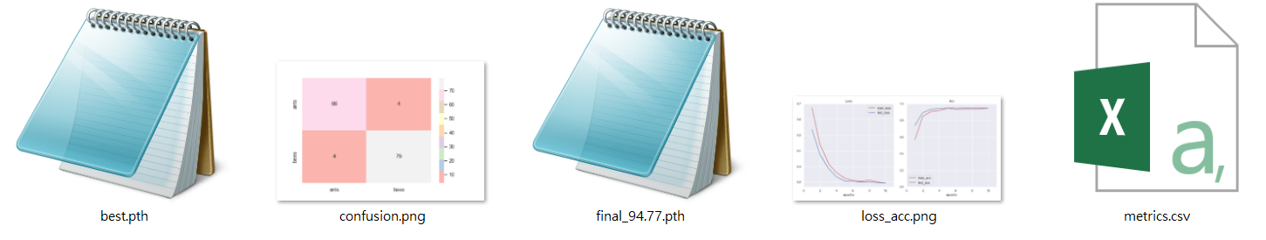
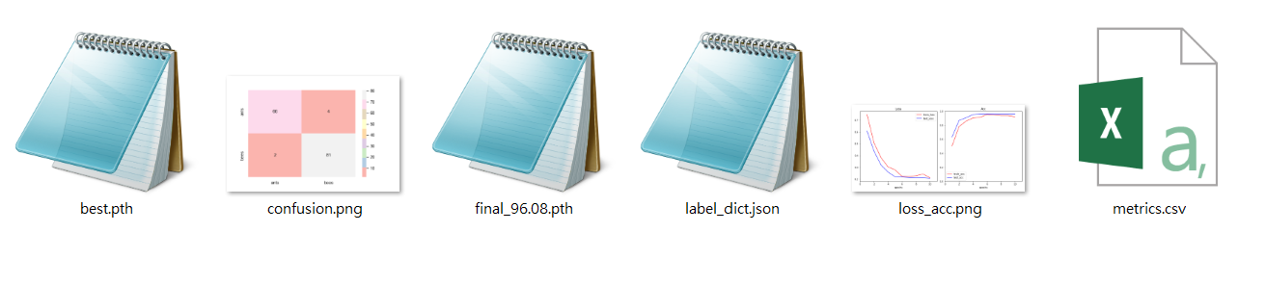
add function of generate label_dict.json

diff --git a/yuyi_ai_package/classification/interface.py b/yuyi_ai_package/classification/interface.py
@@ -6,7 +6,48 @@ Created on Sun Jun 19 22:44:07 2022
 
 """
 
-
+""" 使用方式
+    
+    import yuyi_nilm_package as yuyi
+    import torch, torchvision
+    from torch import nn
+    import torch.nn.functional as F
+    import torchvision.models as models
+    
+    
+    def main():
+        train_dataset = yuyi.classification.Classify_Dataset("train_img/train")
+        train_loader = torch.utils.data.DataLoader(train_dataset, 
+                                                    batch_size=32,
+                                                    shuffle=True,
+                                                    drop_last=False)
+        test_dataset = yuyi.classification.Classify_Dataset("train_img/val")
+        test_loader = torch.utils.data.DataLoader(test_dataset, 
+                                                    batch_size=len(test_dataset),
+                                                    shuffle=True,
+                                                    drop_last=False)
+        
+        ## {標籤 : 數字}
+        label_dict = train_dataset.getLabeldict()
+        
+        
+        
+        
+        ## 模型
+        model = models.resnet18(pretrained=True)
+        model.conv1 = nn.Conv2d(1, 64, 7, stride=(2, 2), padding=(3, 3), bias=False)
+        model.fc = nn.Linear(model.fc.in_features, 7)
+        
+        ## 訓練
+        epochs = 20
+        lr = 0.00001
+        opt = "adam"
+        classifyObj = yuyi.classification.Classify(label_dict)
+        classifyObj.train(train_loader, test_loader, model, epochs=epochs, lr=lr, opt=opt)
+        
+        ## 評估
+        classifyObj.evaluate(test_loader)
+"""
 
 
 from .classiifier import *
@@ -17,6 +58,7 @@ from PIL import Image
 import sklearn.metrics as metrics
 import seaborn as sns
 import pandas as pd
+import json
 
 class Classify_Dataset(Dataset):
     """ 
@@ -95,6 +137,10 @@ class Classify():
         folder_name = len(os.listdir(metrics_folder))
         self.__folder_path = os.path.join(metrics_folder, f"Result_{folder_name}/")
         os.mkdir(self.__folder_path)
+        
+        ## 儲存 label_dict
+        with open(os.path.join( self.__folder_path, "label_dict.json"), 'w') as f:
+            json.dump([self.__label_dict, self.__label_dict_reverse], f)
     
     
     def train(self, train_loader, test_loader, model, epochs=10, lr=0.0001, opt="sgd", early_stop=200):

diff --git a/README.md b/README.md
@@ -11,7 +11,7 @@
 * **執行 ```train_classifier.py```**，在執行的過程中，會同步顯示 Loss、Acc圖 (如下)
 ![訓練過程_Loss_Acc](./img/classification_loss_acc.gif)
 
-* **執行完畢會生成 ```AI-utils/metrics/Result_1/``` 資料夾，裡面會存放 : <u>模型權重</u>、<u>最終Loss_Acc圖</u>、<u>Confusion Matrix圖</u> 以及 一份<u>excel檔案(內含每個類別的acc、recall、fi-score)</u>**<br><br>
+* **執行完畢會生成 ```AI-utils/metrics/Result_1/``` 資料夾，裡面會存放 : <u>模型權重</u>、<u>標籤對應數字.json</u>、<u>最終Loss_Acc圖</u>、<u>Confusion Matrix圖</u> 以及 一份<u>excel檔案(內含每個類別的acc、recall、fi-score)</u>**<br><br>
 ![metrics/Result_1/](./img/classification_metrics.png)
 
 ### 客製化訓練
